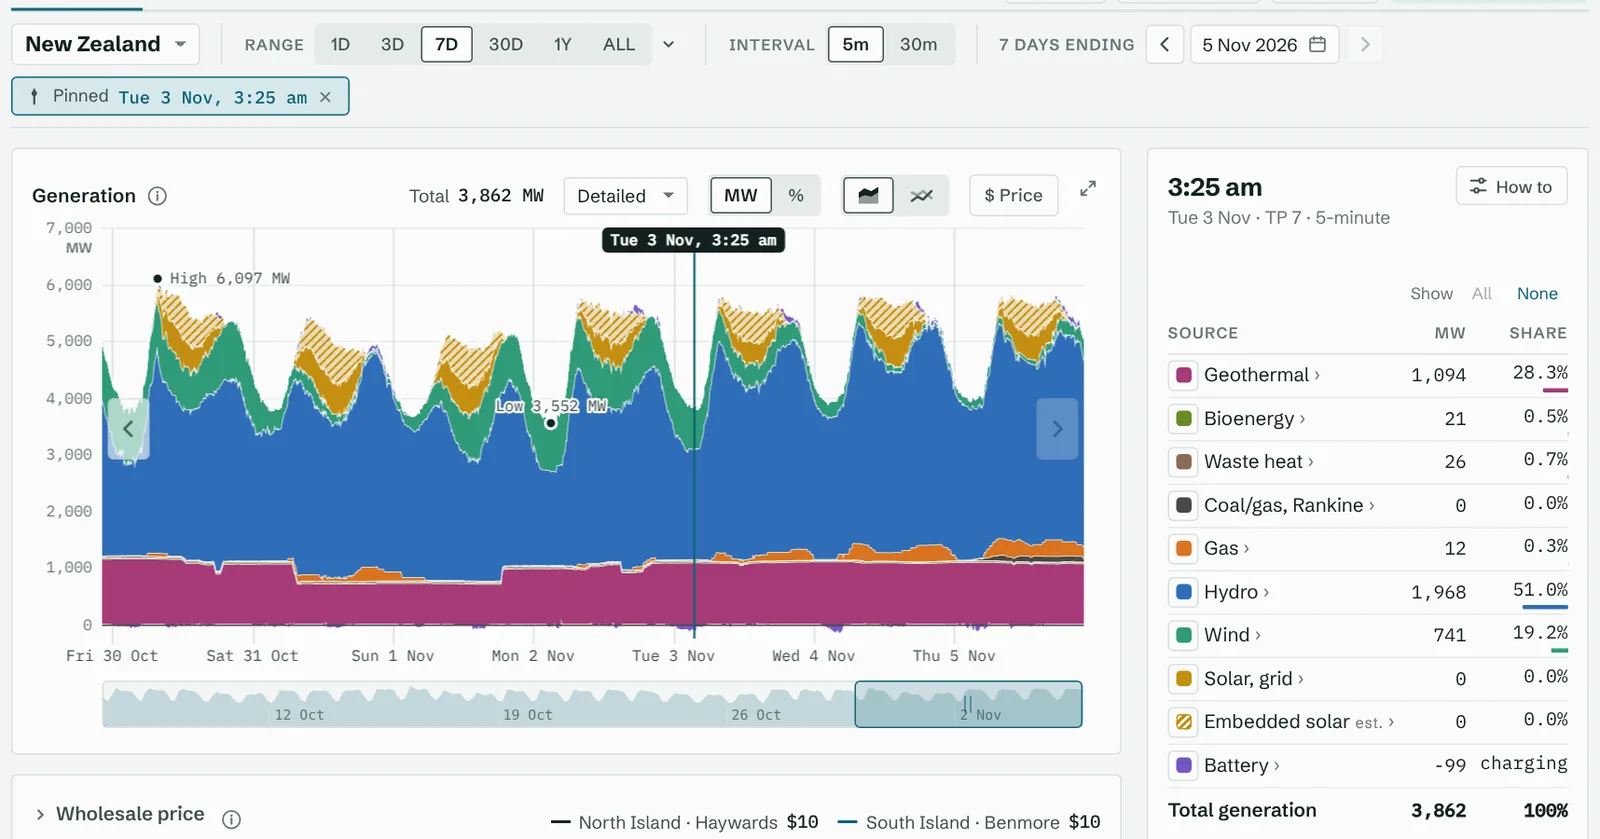
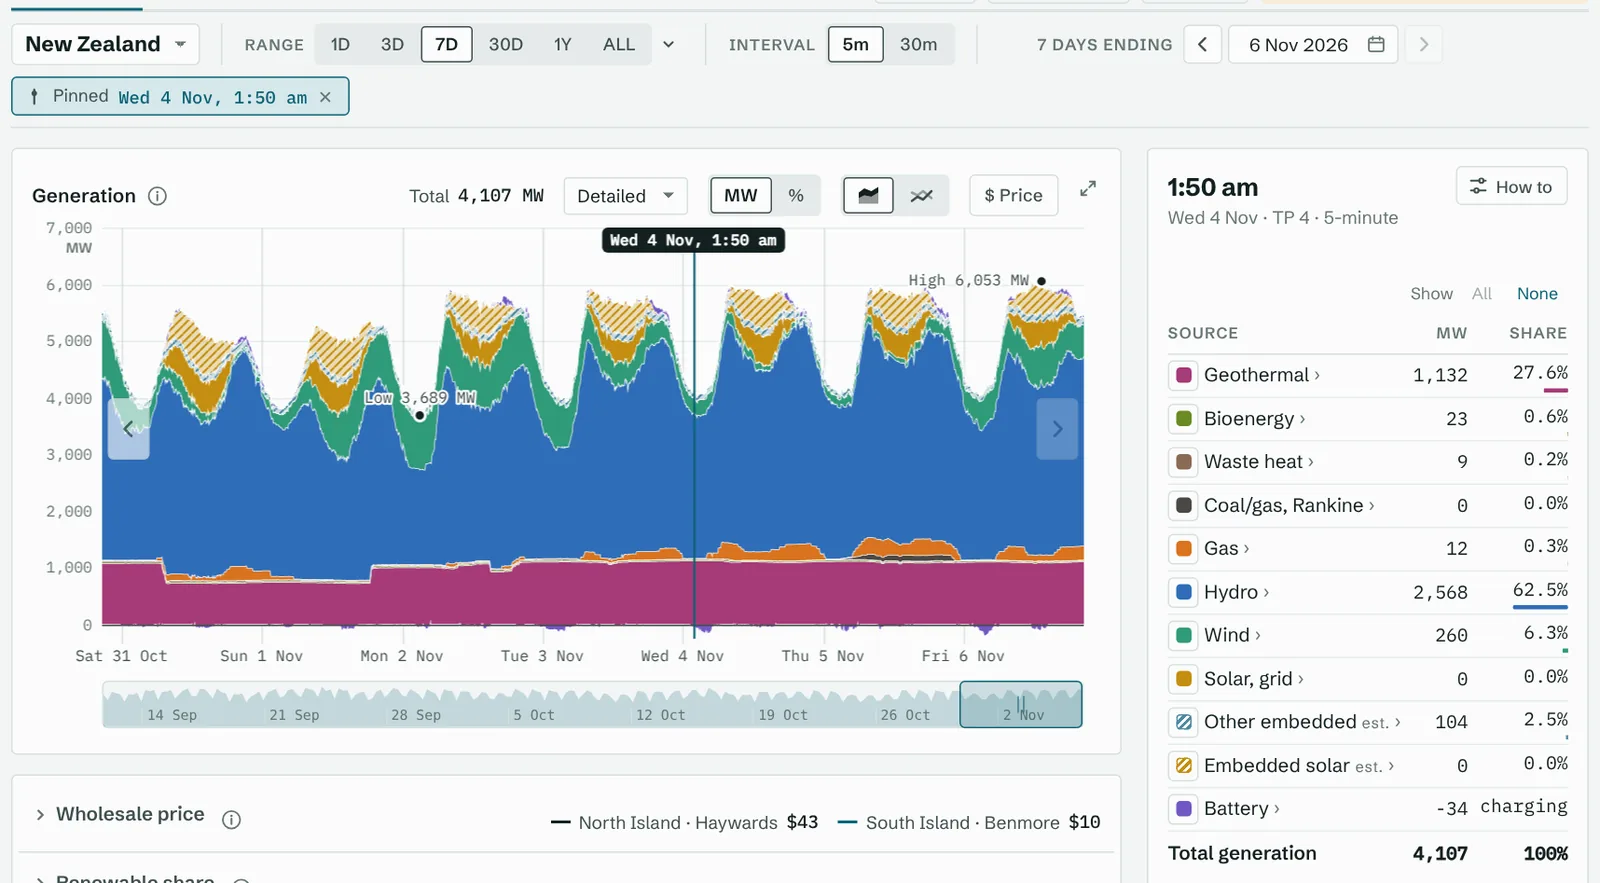
Guide: the hatched layers and new screenshots; note a plant name for a later build
Claude-Session: https://claude.ai/code/session_01GsRhH8MSyUXTQ2cjSebW2A

diff --git a/analysis/guide_shots.py b/analysis/guide_shots.py
@@ -52,7 +52,13 @@ def context(browser, theme, **kw):
             path = route.request.url.split('/data/', 1)[1]
             if path not in cache:
                 req = urllib.request.Request(f'{LIVE}/data/{path}', headers={'User-Agent': 'Mozilla/5.0'})
-                cache[path] = urllib.request.urlopen(req, timeout=60).read()
+                for attempt in range(4):
+                    try:
+                        cache[path] = urllib.request.urlopen(req, timeout=60).read()
+                        break
+                    except OSError:
+                        if attempt == 3:
+                            raise
             route.fulfill(status=200, content_type='application/json', body=cache[path])
         ctx.route('**/data/**', data)
     return ctx

diff --git a/facilities/NEXT_REBUILD.md b/facilities/NEXT_REBUILD.md
@@ -26,3 +26,9 @@ generation, and clear the done items from this file.
 
 - Highbank before Oct 2001: no meter in `Generation_MD` or `Embedded_generation`, and reconciliation starts in 2005.
   Its capacity counts from its first metered month (`plant_capacity.csv`), and the history page lists the gap.
+
+## Noted for a later build
+
+- Nga Awa Pūrua: the plant's name in the data lacks its first macron (`overrides.toml`, `plant_capacity.csv`, the key in
+  `emissions.js`). The method pages show Ngā Awa Pūrua, and `capacity.svelte` maps the name for its table. Renaming it in
+  the data changes a fingerprinted file, so it waits for a build.
